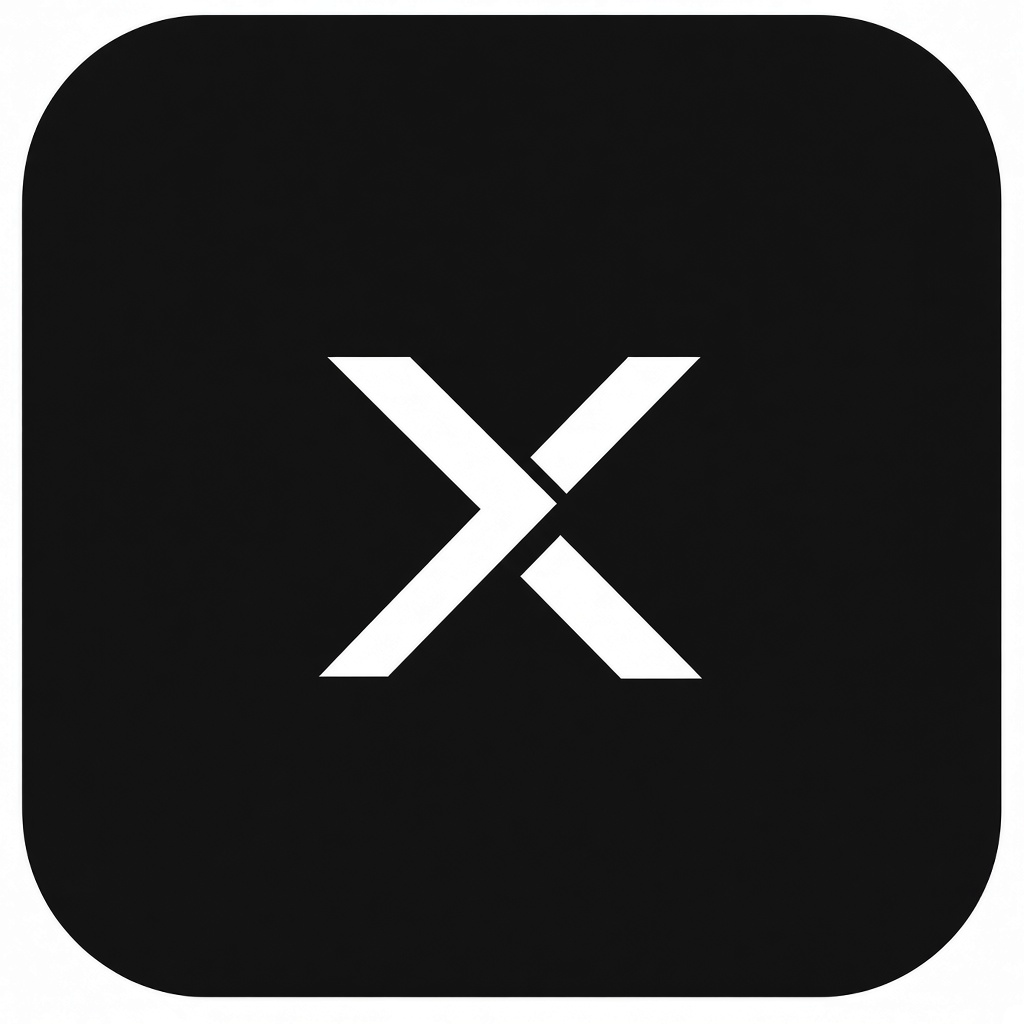
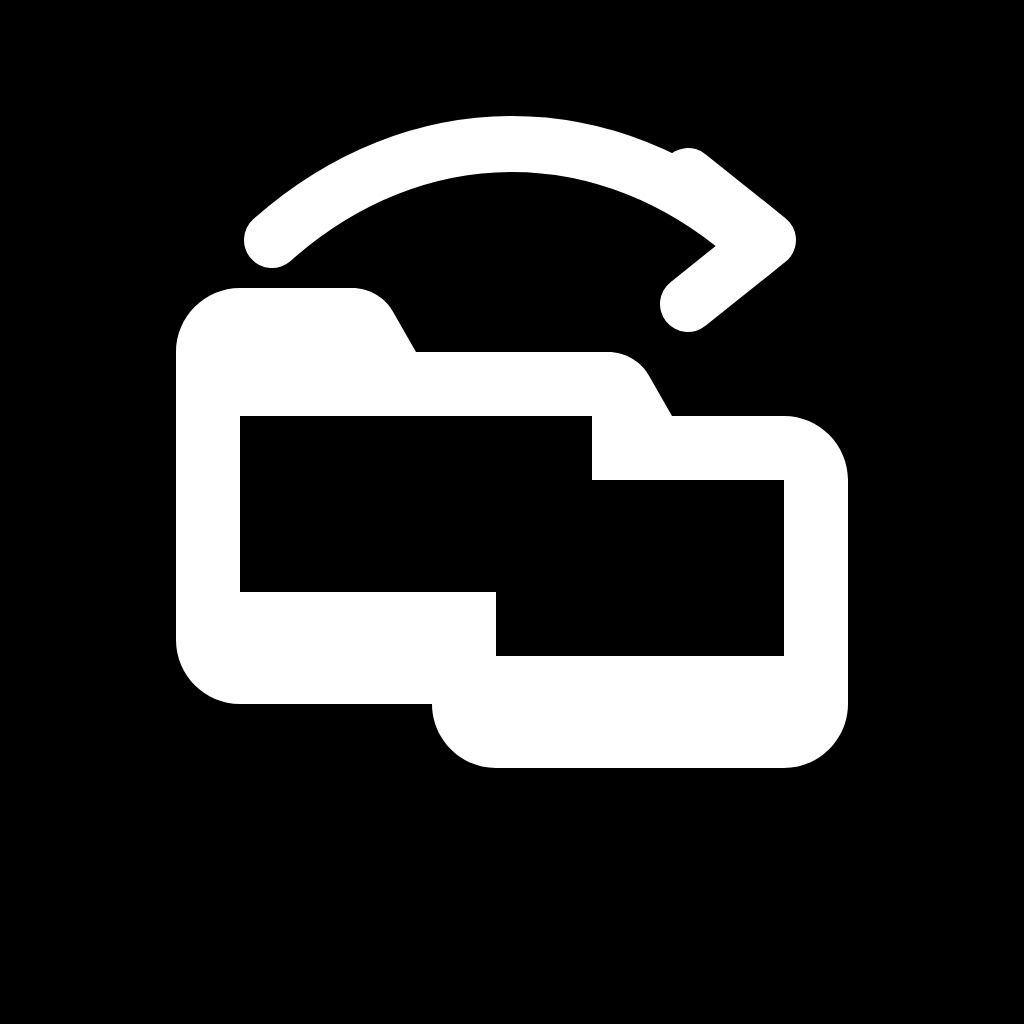
fix: two-tabs mark + kill autoplay media
Replace diamond/X glyph with two browser tabs + one curved handoff
arrow. Remove demo GIF/MP4; README uses static strip + screenshots only.

diff --git a/README.md b/README.md
@@ -41,15 +41,16 @@ node packages/cli/dist/index.js run \
 You get a **shareable receipt** — markdown + screenshots + Task Card — under `~/.tabhandoff/receipts/<id>/`.
 
 <p align="center">
-  <img src="docs/assets/tabhandoff-demo.gif" alt="TabHandoff Capture → Package → Continue demo" width="720" />
+  <img src="docs/assets/tabhandoff-demo-strip.png" alt="TabHandoff before/after: Capture → Receipt" width="720" />
 </p>
 
-<details>
-<summary>Sample receipt excerpt</summary>
+<p align="center">
+  <img src="docs/assets/tabhandoff-demo-screenshot.png" alt="Capture — page loaded" width="360" />
+  &nbsp;
+  <img src="docs/assets/tabhandoff-demo-screenshot-result.png" alt="Continue — receipt result" width="360" />
+</p>
 
 Live run against `playwright.dev/docs/intro` (`b8f51071-…`): isolated Chromium, DOM extract, receipt written — cookies/creds never transferred.
-
-</details>
 
 ---
 
@@ -119,9 +120,9 @@ Live run against `playwright.dev/docs/intro` (`b8f51071-…`): isolated Chromium
 |---|---|
 | App icon / avatar (hero) | [`docs/assets/tabhandoff-app-icon.png`](docs/assets/tabhandoff-app-icon.png) |
 | Logo (same mark) | [`docs/assets/tabhandoff-logo.png`](docs/assets/tabhandoff-logo.png) |
-| SVG mark (vector of same glyph) | [`docs/assets/tabhandoff-mark.svg`](docs/assets/tabhandoff-mark.svg) |
+| SVG mark (two tabs + one arrow) | [`docs/assets/tabhandoff-mark.svg`](docs/assets/tabhandoff-mark.svg) |
 | GitHub social preview (1200×630) | [`docs/assets/tabhandoff-og.png`](docs/assets/tabhandoff-og.png) |
-| Demo GIF | [`docs/assets/tabhandoff-demo.gif`](docs/assets/tabhandoff-demo.gif) |
+| Demo (static strip) | [`docs/assets/tabhandoff-demo-strip.png`](docs/assets/tabhandoff-demo-strip.png) |
 
 Repo settings → Social preview → upload `docs/assets/tabhandoff-og.png`. Use the **app icon PNG** as the org/user avatar.
 
@@ -135,7 +136,7 @@ packages/
   runner/     @tabhandoff/runner
   mcp/        @tabhandoff/mcp
   cli/        @tabhandoff/cli
-docs/assets/  logo · OG · demo gif
+docs/assets/  app icon · OG · static demo stills
 scripts/install.sh
 ```
 
